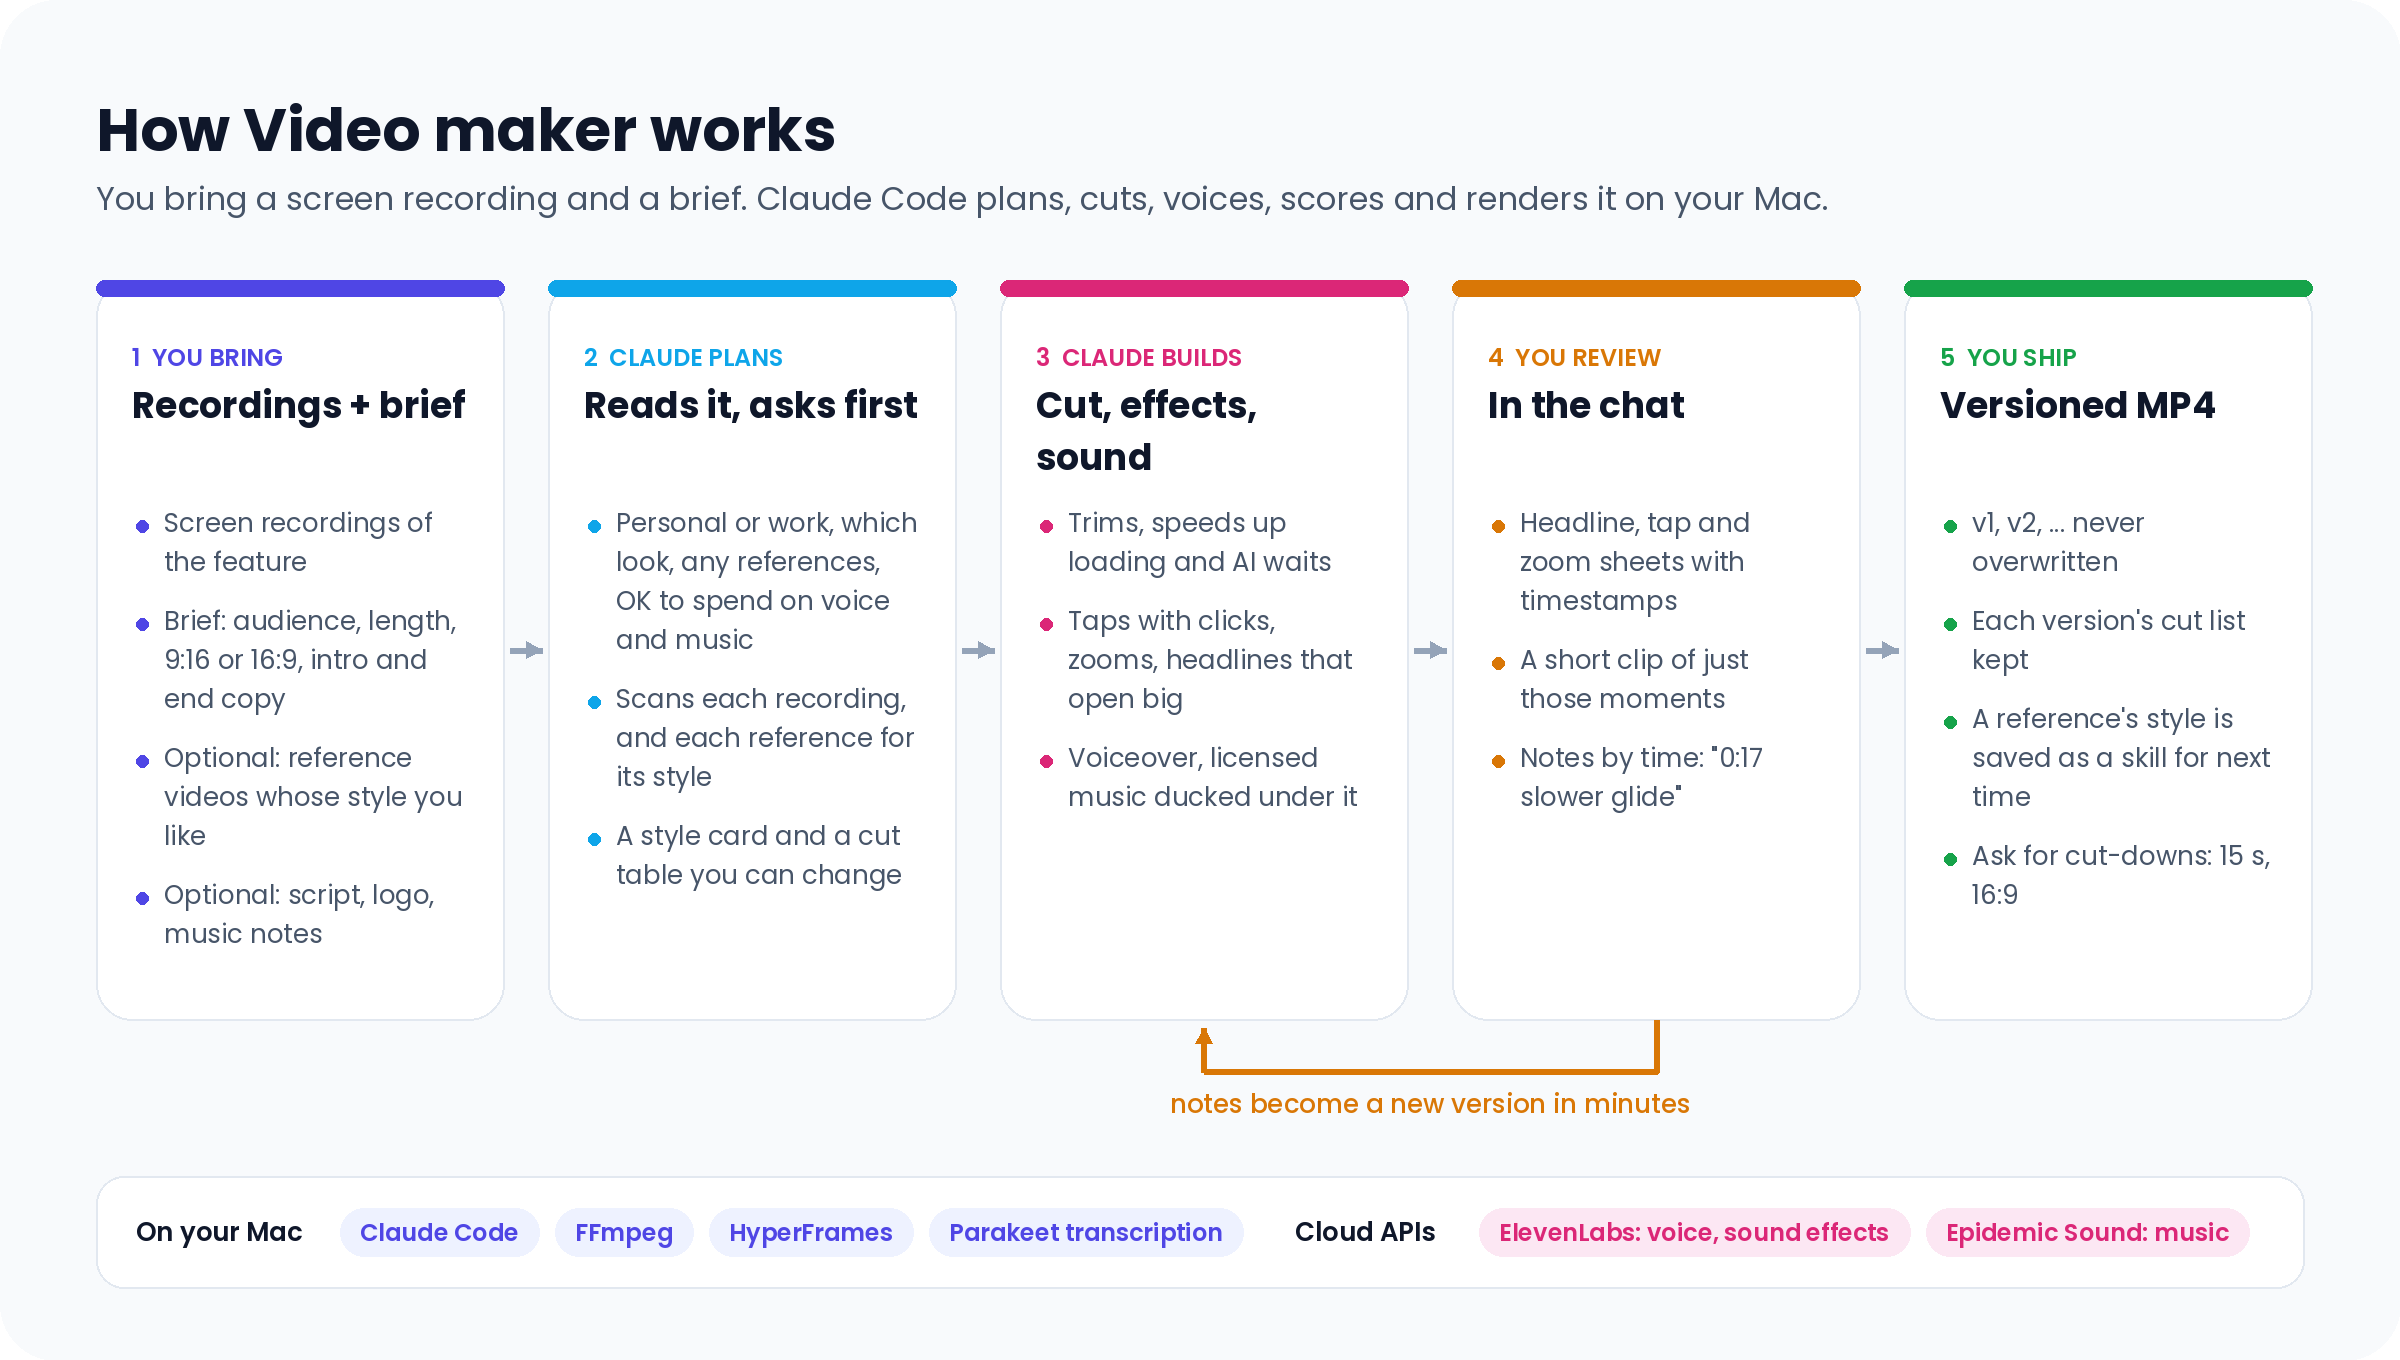
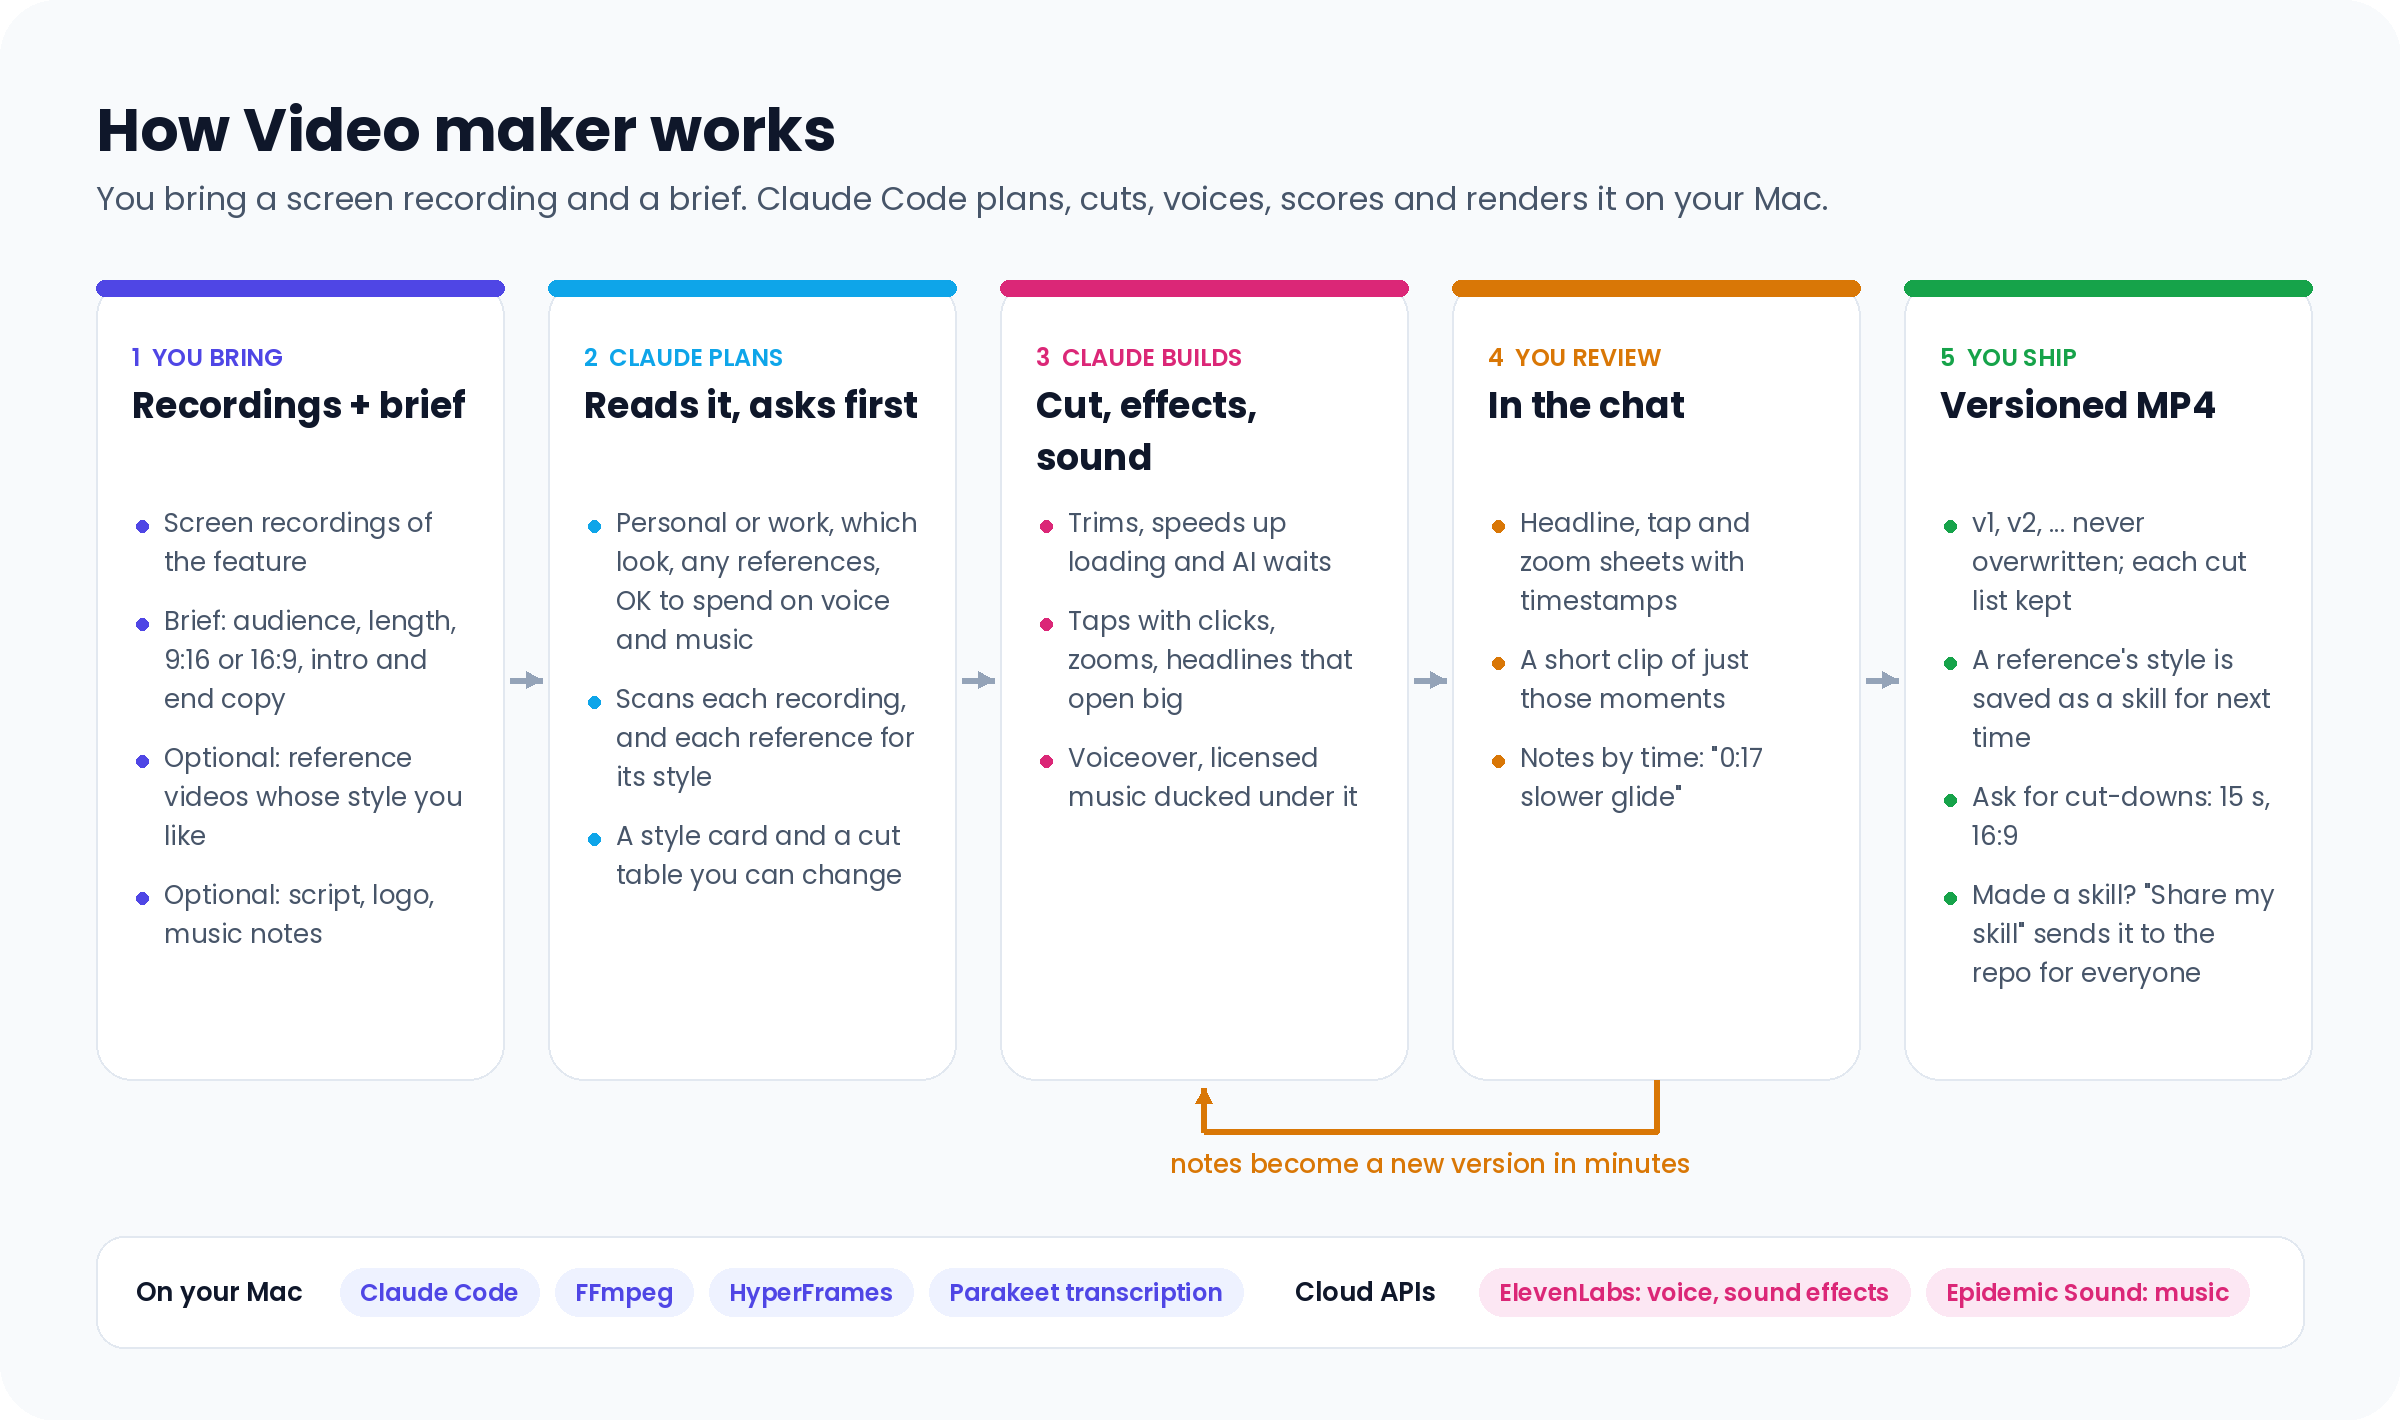
README creatives: the share-skill step
The workflow diagram's ship stage and the PMM steps (now ten) show sharing a
skill you made with the repo, from the chat, after a yes.

diff --git a/docs/make-visuals.py b/docs/make-visuals.py
@@ -76,7 +76,7 @@ class Canvas:
 
 
 def workflow():
-    c = Canvas(1200, 680)
+    c = Canvas(1200, 710)
     c.text(48, 44, "How Video maker works", F("Bold", 30), INK)
     c.text(48, 88, "You bring a screen recording and a brief. Claude Code plans, cuts, voices, scores and renders it on your Mac.",
            F("Regular", 16), MUTED)
@@ -92,10 +92,10 @@ def workflow():
         (AMBER, "4  YOU REVIEW", "In the chat",
          ["Headline, tap and zoom sheets with timestamps", "A short clip of just those moments", "Notes by time: \"0:17 slower glide\""]),
         (GREEN, "5  YOU SHIP", "Versioned MP4",
-         ["v1, v2, ... never overwritten", "Each version's cut list kept", "A reference's style is saved as a skill for next time",
-          "Ask for cut-downs: 15 s, 16:9"]),
+         ["v1, v2, ... never overwritten; each cut list kept", "A reference's style is saved as a skill for next time",
+          "Ask for cut-downs: 15 s, 16:9", "Made a skill? \"Share my skill\" sends it to the repo for everyone"]),
     ]
-    x, y, w, h, gap = 48, 140, 204, 370, 22
+    x, y, w, h, gap = 48, 140, 204, 400, 22
     for i, (col, tag, title, items) in enumerate(stages):
         x0 = x + i * (w + gap)
         c.box(x0, y, x0 + w, y + h, 18, fill=CARD, outline=LINE)
@@ -114,7 +114,7 @@ def workflow():
     c.arrow(lx0, ly, lx0, y + h + 4, AMBER, 3)
     c.text((lx0 + lx1) / 2, ly + 16, "notes become a new version in minutes", F("Medium", 13), AMBER, "mm")
     # where things run
-    yb = 588
+    yb = 618
     c.box(48, yb, 1152, yb + 56, 14, fill=CARD, outline=LINE)
     c.text(68, yb + 28, "On your Mac", F("SemiBold", 13), INK, "lm")
     xx = 170
@@ -150,6 +150,9 @@ def steps():
         ("You", GREEN, "1 min", "Ship it",
          "The MP4 is in Movies > YouTube Renders, one file per version. A reference's style is saved as a skill: next time say "
          "\"in the <name> style\". Ask for cut-downs: a 15 s teaser, a 16:9 for the site."),
+        ("You + Claude", ROSE, "5 min", "Share a skill you made (optional)",
+         "Say \"share my skill\". Claude checks it (no footage, keys or company names), shows what would go public, and "
+         "opens a pull request after your yes. Needs a free GitHub account."),
     ]
     W, top, rh = 1200, 140, 118
     c = Canvas(W, top + len(rows) * rh + 70)

diff --git a/README.md b/README.md
@@ -61,11 +61,11 @@ for personal use; videos your company publishes need their Starter plan ($6 a mo
 
 ## The workflow
 
-![How Video maker works: you bring recordings, a brief and optionally reference videos whose style you like; Claude plans, asks first and turns any reference into a style card; Claude builds the cut, effects and sound; you review in the chat; and you ship a versioned MP4, with the reference's style saved as a skill. Notes loop back to the build.](docs/images/workflow.png)
+![How Video maker works: you bring recordings, a brief and optionally reference videos whose style you like; Claude plans, asks first and turns any reference into a style card; Claude builds the cut, effects and sound; you review in the chat; and you ship a versioned MP4, with the reference's style saved as a skill; a skill you made can be shared with the repo by saying share my skill. Notes loop back to the build.](docs/images/workflow.png)
 
 ## Step by step for PMMs
 
-![Nine steps: pick one feature and one message, record the flow, make the video's folder, write the brief, add reference videos whose style you like (optional), say Edit my video, Claude drafts, review in the chat and give notes, ship it.](docs/images/pmm-steps.png)
+![Ten steps: pick one feature and one message, record the flow, make the video's folder, write the brief, add reference videos whose style you like (optional), say Edit my video, Claude drafts, review in the chat and give notes, ship it, and share a skill you made (optional).](docs/images/pmm-steps.png)
 
 ## What you get back
 
